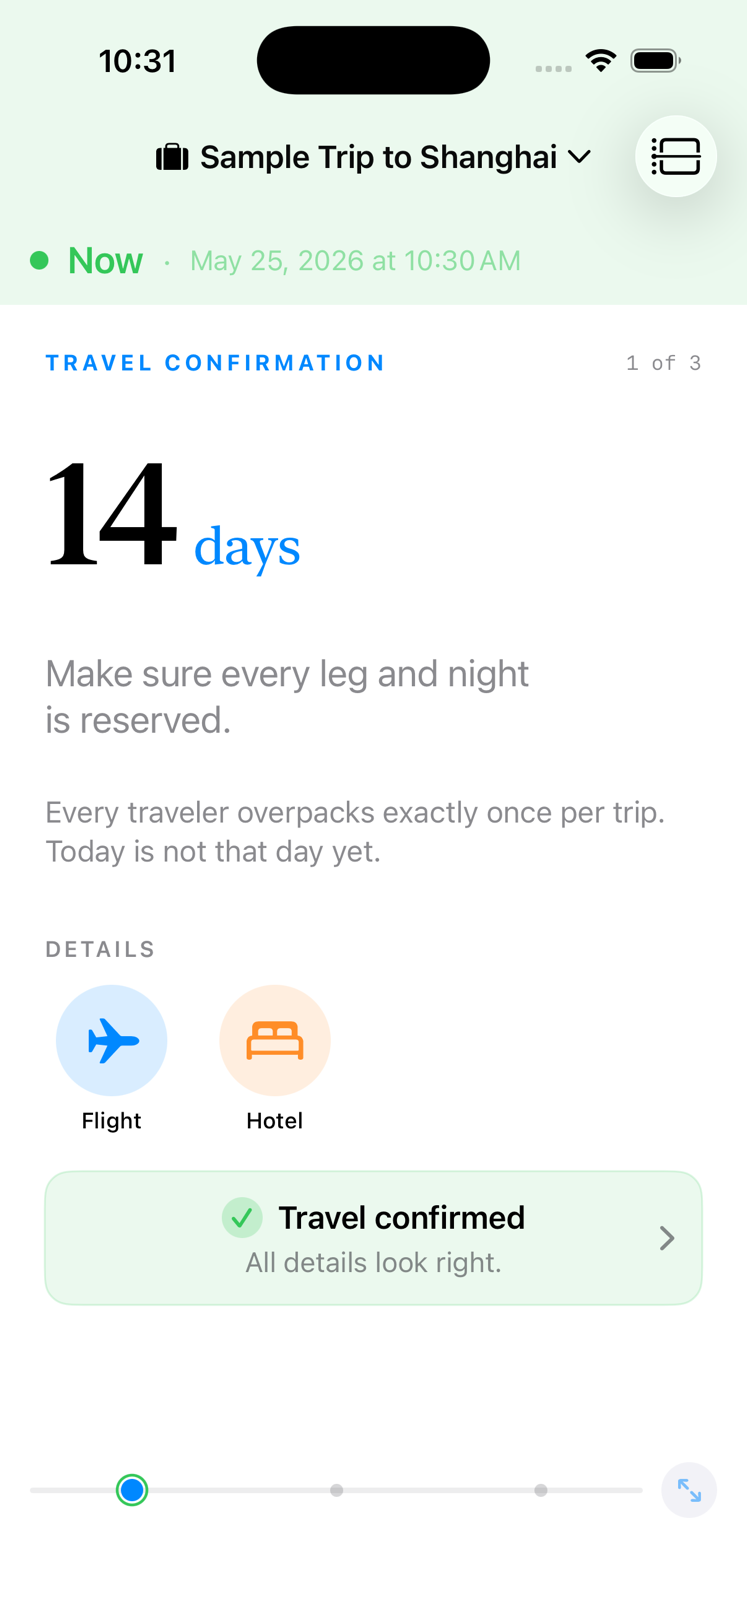
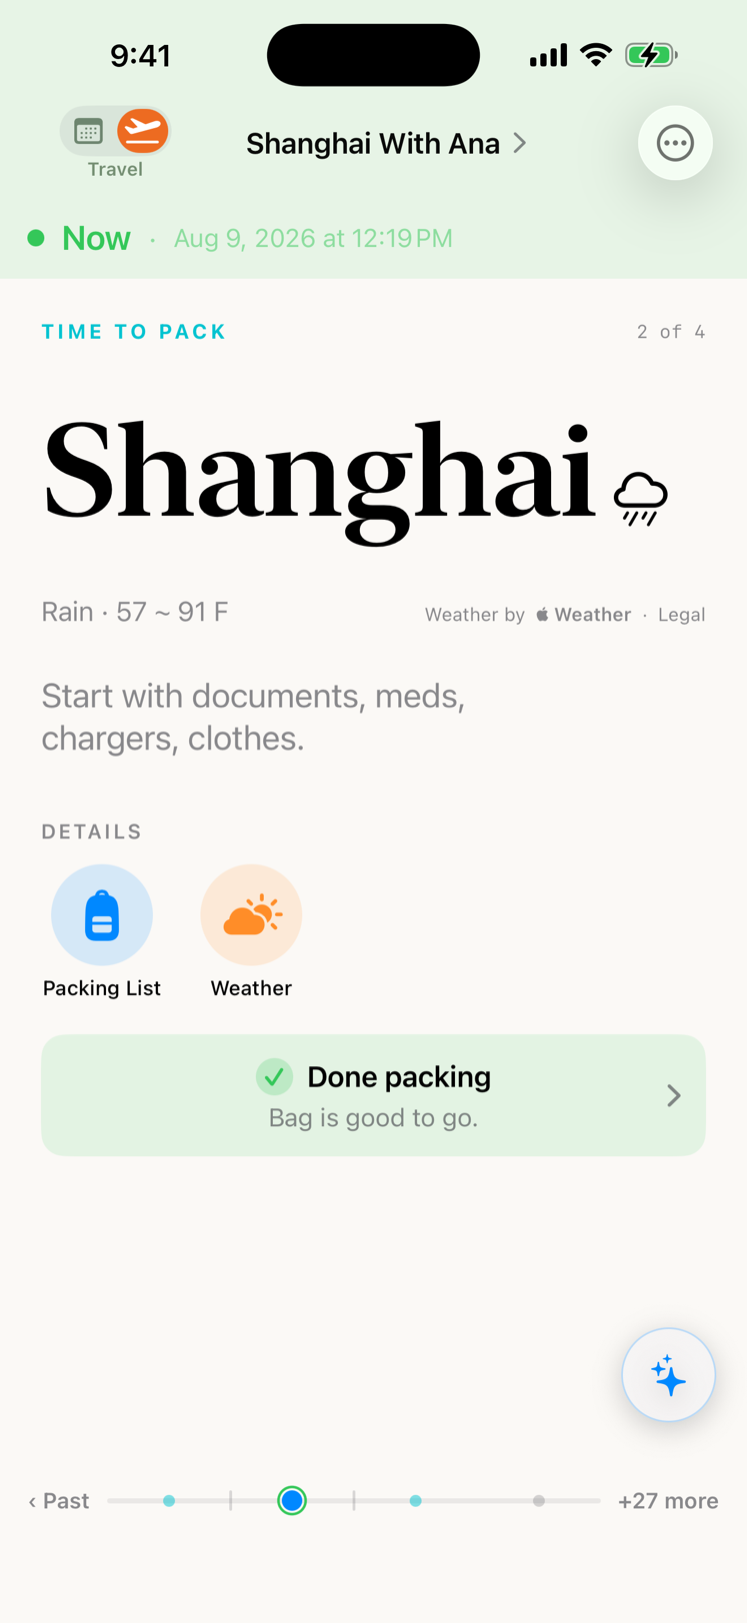
The app page catches up with the trip's three stages
TravelOrbit 1.5 gives one trip three answers — a Plan mode for building
it, the existing Travel mode for the day itself, and My Travels for
everywhere it has already been — so the page stops being a page about
travel day alone.

Two new sections, Plan mode and My Travels, and the seven that were
already here renumbered and re-flipped around them. The moment engine now
says what it is: what the same trip becomes when you switch to Travel.

Screenshots are captured from a booted iPhone 17 Pro Max at 87c9117.
Plan mode and My Travels are new; home-moment and trip-preview are
replaced because both grew a switch this release — Plan | Travel in the
toolbar, Itinerary | Journey in Preview — and the old shots showed
neither.

diff --git a/travelorbit/index.html b/travelorbit/index.html
@@ -3,16 +3,16 @@
 <head>
   <meta charset="UTF-8">
   <meta name="viewport" content="width=device-width, initial-scale=1.0">
-  <title>TravelOrbit — Not just your itinerary. Your next move.</title>
-  <meta name="description" content="TravelOrbit is a real-time travel-day co-pilot. It surfaces the one thing to do next—leave-by times, check-in, gates, arrival—with live flight updates and a private on-device AI assistant, while keeping flights, hotels, travelers and documents in one calm timeline.">
+  <title>TravelOrbit — Plan it. Travel it. Remember it.</title>
+  <meta name="description" content="TravelOrbit adapts to the stage you're at: a calm planning workspace before the trip, a real-time co-pilot on travel day that surfaces the next move — leave-by times, check-in, gates — and a private travel history of everywhere you've been afterwards. With live flight updates and an on-device AI assistant.">
   <link rel="canonical" href="https://cooltravelpal.com/travelorbit/">
   <link rel="stylesheet" href="/css/style.css">
   <link rel="stylesheet" href="/css/travelorbit.css">
   <link rel="icon" type="image/png" href="/images/favicon.png">
   <meta property="og:type" content="website">
   <meta property="og:site_name" content="Cool TravelPal">
-  <meta property="og:title" content="TravelOrbit — Not just your itinerary. Your next move.">
-  <meta property="og:description" content="A real-time travel-day co-pilot with live flight updates and a private on-device AI assistant. The next move, right when you need it.">
+  <meta property="og:title" content="TravelOrbit — Plan it. Travel it. Remember it.">
+  <meta property="og:description" content="A planning workspace before the trip, a real-time co-pilot during it, and a private map of everywhere you've been after. With live flight updates and an on-device AI assistant.">
   <meta property="og:url" content="https://cooltravelpal.com/travelorbit/">
   <meta property="og:image" content="https://cooltravelpal.com/images/travelorbit-icon.png">
   <script type="application/ld+json">
@@ -26,7 +26,8 @@
         "applicationCategory": "TravelApplication",
         "url": "https://cooltravelpal.com/travelorbit/",
         "installUrl": "https://apps.apple.com/app/id6772864604",
-        "description": "TravelOrbit is a real-time travel-day co-pilot: every booking in one calm timeline, the next move surfaced when it matters, with live flight updates and a private on-device AI assistant.",
+        "softwareVersion": "1.5",
+        "description": "TravelOrbit follows a trip through all three of its stages: a Plan mode for building the trip, a Travel mode that surfaces the next move as the day unfolds, and a private travel history of every trip you've taken — with live flight updates and an on-device AI assistant.",
         "publisher": { "@id": "https://cooltravelpal.com/#org" }
       },
       {
@@ -77,9 +78,9 @@
     <header class="to-hero">
       <div class="to-wrap">
         <div class="to-hero-copy">
-          <span class="to-eyebrow to-reveal">Real-time travel-day co-pilot</span>
+          <span class="to-eyebrow to-reveal">Plan it. Travel it. Remember it.</span>
           <h1 class="to-reveal d1">Your trip,<br>one <span class="ital">moment</span><br>at a time.</h1>
-          <p class="lede to-reveal d2">Most travel apps hand you a folder of bookings. TravelOrbit hands you the <em>next move</em> — when to leave, where to check in, which gate, what's next — surfaced exactly when it matters, with live flight updates and a private AI assistant that answers right on your phone.</p>
+          <p class="lede to-reveal d2">Most travel apps hand you a folder of bookings. TravelOrbit changes with the trip: a calm workspace while you're still deciding, then the <em>next move</em> on travel day — when to leave, where to check in, which gate — and afterwards, a private map of everywhere you've been.</p>
           <div class="to-cta-row to-reveal d2">
             <a href="https://apps.apple.com/app/id6772864604" class="to-btn to-btn-primary"><span class="apple" aria-hidden="true"><svg viewBox="0 0 384 512" width="15" height="15" fill="currentColor"><path d="M318.7 268.7c-.2-36.7 16.4-64.4 50-84.8-18.8-26.9-47.2-41.7-84.7-44.6-35.5-2.8-74.3 20.7-88.5 20.7-15 0-49.4-19.7-76.4-19.7C63.3 141.2 4 184.8 4 273.5q0 39.3 14.4 81.2c12.8 36.7 59 126.7 107.2 125.2 25.2-.6 43-17.9 75.8-17.9 31.8 0 48.3 17.9 76.4 17.9 48.6-.7 90.4-82.5 102.6-119.3-65.2-30.7-61.7-90-61.7-91.9zm-56.6-164.2c27.3-32.4 24.8-61.9 24-72.5-24.1 1.4-52 16.4-67.9 34.9-17.5 19.8-27.8 44.3-25.6 71.9 26.1 2 49.9-11.4 69.5-34.3z"/></svg></span> Download on the App Store</a>
             <a href="#how" class="to-btn to-btn-ghost">See how it works</a>
@@ -91,7 +92,7 @@
           <div class="to-orbit alt" aria-hidden="true"></div>
           <div class="to-orbit" aria-hidden="true"></div>
           <div class="to-phone">
-            <img src="/images/travelorbit-screens/home-moment.png" alt="TravelOrbit home screen showing the current travel moment with a countdown" loading="eager" width="747" height="1624">
+            <img src="/images/travelorbit-screens/home-moment.png" alt="TravelOrbit in Travel mode, showing the current moment — time to pack for Shanghai" loading="eager" width="747" height="1623">
           </div>
         </div>
       </div>
@@ -102,7 +103,7 @@
       <div class="to-wrap to-reveal">
         <p class="kicker">Planners vs. co-pilots</p>
         <h2>A planner <span class="hl">organizes</span> your trip.<br>TravelOrbit <span class="hl">runs</span> it.</h2>
-        <p class="sub">Like a navigator for your whole journey — calm before, certain during.</p>
+        <p class="sub">One trip, three answers: what to add, what to do next, and where you've been. Plan freely, travel calmly, remember it whole.</p>
       </div>
     </section>
 
@@ -113,20 +114,33 @@
         <!-- 1 -->
         <section class="to-feature">
           <div class="to-feature-copy to-reveal">
-            <div class="to-feature-num">01 — The moment engine</div>
-            <h2>The next step, before you ask</h2>
-            <p>One screen, one focus. TravelOrbit reads your itinerary and surfaces the single thing that matters right now — confirm bookings, pack, check in, leave home — then quietly advances as your day unfolds.</p>
-            <ul><li>Leave-by timing</li><li>Auto-advancing timeline</li><li>Gentle countdowns</li></ul>
+            <div class="to-feature-num">01 — Plan mode</div>
+            <h2>A trip you can build before you book it</h2>
+            <p>Start a trip with nothing but a name, a destination and dates. Plan mode gives it a cover, a countdown and a running plan in date order — and five buttons that add a flight, a stay, an activity, a transit leg or a rental one booking at a time. If a night has nowhere to sleep, it says so, and tapping the warning opens the stay already filled in.</p>
+            <ul><li>Plan &#124; Travel in one tap</li><li>Quick add, one booking at a time</li><li>A night with no stay, flagged</li></ul>
           </div>
           <div class="to-feature-media to-reveal d1">
-            <div class="pad"><div class="to-phone"><img src="/images/travelorbit-screens/home-moment.png" alt="Current moment with a 14-day countdown" loading="lazy" width="747" height="1624"></div></div>
+            <div class="pad"><div class="to-phone"><img src="/images/travelorbit-screens/plan-mode.png" alt="Plan mode showing a trip cover with a countdown, the plan in date order, and buttons to add a flight, stay, activity, transit or rental" loading="lazy" width="747" height="1623"></div></div>
           </div>
         </section>
 
         <!-- 2 -->
         <section class="to-feature flip">
           <div class="to-feature-copy to-reveal">
-            <div class="to-feature-num">02 — Ask your trip</div>
+            <div class="to-feature-num">02 — The moment engine</div>
+            <h2>The next step, before you ask</h2>
+            <p>When the trip gets close, switch to Travel and the same trip becomes one screen with one focus. TravelOrbit surfaces the single thing that matters right now — confirm bookings, pack, check in, leave home — then quietly advances as your day unfolds.</p>
+            <ul><li>Leave-by timing</li><li>Auto-advancing timeline</li><li>Gentle countdowns</li></ul>
+          </div>
+          <div class="to-feature-media to-reveal d1">
+            <div class="pad"><div class="to-phone"><img src="/images/travelorbit-screens/home-moment.png" alt="Travel mode showing the current moment — time to pack, with Shanghai weather and the packing list" loading="lazy" width="747" height="1623"></div></div>
+          </div>
+        </section>
+
+        <!-- 3 -->
+        <section class="to-feature">
+          <div class="to-feature-copy to-reveal">
+            <div class="to-feature-num">03 — Ask your trip</div>
             <h2>A travel assistant that runs on your phone</h2>
             <p>Ask in plain words — "When do I board?", "How long is my layover?", "Where am I staying Tuesday?" — and get an answer pulled straight from your itinerary. It runs entirely on-device with Apple Intelligence, so nothing about your trip ever leaves your phone.</p>
             <ul><li>Answers from your itinerary</li><li>On-device &amp; private</li><li>No account, no cloud</li></ul>
@@ -136,10 +150,10 @@
           </div>
         </section>
 
-        <!-- 3 -->
-        <section class="to-feature">
+        <!-- 4 -->
+        <section class="to-feature flip">
           <div class="to-feature-copy to-reveal">
-            <div class="to-feature-num">03 — Travel day</div>
+            <div class="to-feature-num">04 — Travel day</div>
             <h2>Your travel day, minute by minute</h2>
             <p>On the day itself, TravelOrbit follows the route — flight number, gate, terminal, boarding estimate, and an offline map of the airport. Live flight updates and a Live Activity keep the countdown and any gate change right on your Lock Screen, so you don't have to open the app.</p>
             <ul><li>Live flight updates</li><li>Gate change on the Lock Screen</li><li>Offline route map</li></ul>
@@ -149,23 +163,23 @@
           </div>
         </section>
 
-        <!-- 4 -->
-        <section class="to-feature flip">
-          <div class="to-feature-copy to-reveal">
-            <div class="to-feature-num">04 — One trip, everything</div>
-            <h2>Every booking in one timeline</h2>
-            <p>Flights, hotels, rental cars, ground transit and activities live together in a single, scrollable trip — with seats, room numbers, confirmation codes and times exactly where you expect them. Point the camera at a confirmation email or boarding pass and the details fill themselves in.</p>
-            <ul><li>Flights &amp; hotels</li><li>Cars &amp; transit</li><li>Scan a confirmation to add it</li></ul>
-          </div>
-          <div class="to-feature-media to-reveal d1">
-            <div class="pad"><div class="to-phone"><img src="/images/travelorbit-screens/trip-preview.png" alt="Trip preview showing the full itinerary" loading="lazy" width="747" height="1624"></div></div>
-          </div>
-        </section>
-
         <!-- 5 -->
         <section class="to-feature">
           <div class="to-feature-copy to-reveal">
-            <div class="to-feature-num">05 — Prepared</div>
+            <div class="to-feature-num">05 — One trip, everything</div>
+            <h2>Every booking in one timeline</h2>
+            <p>Flights, hotels, rental cars, ground transit and activities live together in a single, scrollable trip — day by day, with seats, room numbers, confirmation codes and times exactly where you expect them. Switch the same screen to Journey to watch the whole route draw itself on a map. Point the camera at a confirmation email or boarding pass and the details fill themselves in.</p>
+            <ul><li>Itinerary or Journey</li><li>Flights, hotels, cars &amp; transit</li><li>Scan a confirmation to add it</li></ul>
+          </div>
+          <div class="to-feature-media to-reveal d1">
+            <div class="pad"><div class="to-phone"><img src="/images/travelorbit-screens/trip-preview.png" alt="Trip Preview showing the itinerary day by day, with an Itinerary and Journey switch" loading="lazy" width="747" height="1623"></div></div>
+          </div>
+        </section>
+
+        <!-- 6 -->
+        <section class="to-feature flip">
+          <div class="to-feature-copy to-reveal">
+            <div class="to-feature-num">06 — Prepared</div>
             <h2>Packing, with context</h2>
             <p>A packing list that knows where you're going — per-traveler lists, a shared common list, and custom lists for to-dos and shopping, all synced live with your companions. Import from Reminders or paste a list, save your own template, and pair it with destination weather cues so the trip feels handled before you zip the bag.</p>
             <ul><li>Per-traveler &amp; shared lists</li><li>Import from Reminders</li><li>Destination weather</li></ul>
@@ -175,10 +189,10 @@
           </div>
         </section>
 
-        <!-- 6 -->
-        <section class="to-feature flip">
+        <!-- 7 -->
+        <section class="to-feature">
           <div class="to-feature-copy to-reveal">
-            <div class="to-feature-num">06 — Everyone aboard</div>
+            <div class="to-feature-num">07 — Everyone aboard</div>
             <h2>Every traveler, every document</h2>
             <p>Keep the whole party in one place — names, seats, room assignments and travel documents — with passport and ID scans encrypted on device and never sent to a server.</p>
             <ul><li>Multi-traveler</li><li>Passport &amp; ID</li><li>Encrypted on device</li></ul>
@@ -188,16 +202,29 @@
           </div>
         </section>
 
-        <!-- 7 -->
-        <section class="to-feature">
+        <!-- 8 -->
+        <section class="to-feature flip">
           <div class="to-feature-copy to-reveal">
-            <div class="to-feature-num">07 — Yours to keep</div>
+            <div class="to-feature-num">08 — Yours to keep</div>
             <h2>Travel it together</h2>
             <p>Invite a companion and you're both on the same trip — the itinerary, the timeline, even travel-day progress stay in sync through your own iCloud. Add any moment to your calendar and back everything up automatically. Passport and document numbers are never shared, even on a shared trip.</p>
             <ul><li>Companion sharing</li><li>Synced travel-day progress</li><li>Documents stay private</li></ul>
           </div>
           <div class="to-feature-media to-reveal d1">
             <div class="pad"><div class="to-phone"><img src="/images/travelorbit-screens/add-to-calendar.png" alt="Add trip events to Calendar screen" loading="lazy" width="747" height="1624"></div></div>
+          </div>
+        </section>
+
+        <!-- 9 -->
+        <section class="to-feature">
+          <div class="to-feature-copy to-reveal">
+            <div class="to-feature-num">09 — My Travels</div>
+            <h2>Everywhere you've been, on one map</h2>
+            <p>Archive a trip and it joins your travel history: a shelf of trips by year, and a painted world with a pin for every city you've reached. Count the trips, the countries and the cities; filter by year, country or city; or press play and watch your travels light up in the order they happened. Every trip keeps its story and its journey, one tap from the card.</p>
+            <ul><li>Trips and map, one screen</li><li>Play your history in order</li><li>Built from your own trips, on your device</li></ul>
+          </div>
+          <div class="to-feature-media to-reveal d1">
+            <div class="pad"><div class="to-phone"><img src="/images/travelorbit-screens/travel-history.png" alt="Manage Trips showing the active trip and a My Travels card reading 6 trips, 8 cities over a painted world map" loading="lazy" width="747" height="1623"></div></div>
           </div>
         </section>
 
@@ -210,7 +237,7 @@
         <div class="glyph" aria-hidden="true">&#128274;</div>
         <div>
           <h2>Private by design</h2>
-          <p>TravelOrbit is local-first. Your itinerary and documents live on your device and in your own iCloud — passport and ID scans are encrypted and never handed to us. Even the AI assistant runs on-device, so your questions and trip details never leave your phone. No account required to start.</p>
+          <p>TravelOrbit is local-first. Your itinerary, your documents and your travel history live on your device and in your own iCloud — passport and ID scans are encrypted and never handed to us. Even the AI assistant runs on-device, so your questions and trip details never leave your phone. No account required to start.</p>
         </div>
       </div>
     </section>
@@ -219,7 +246,7 @@
     <section class="to-final">
       <div class="to-wrap to-reveal">
         <h2>Travel like it's <span class="ital">handled</span>.</h2>
-        <p>The calm way to move through a trip — from the first countdown to the moment you're home.</p>
+        <p>The calm way to move through a trip — from the first idea to the pin it leaves on your map.</p>
         <div class="to-cta-row">
           <a href="https://apps.apple.com/app/id6772864604" class="to-btn to-btn-primary"><span class="apple" aria-hidden="true"><svg viewBox="0 0 384 512" width="15" height="15" fill="currentColor"><path d="M318.7 268.7c-.2-36.7 16.4-64.4 50-84.8-18.8-26.9-47.2-41.7-84.7-44.6-35.5-2.8-74.3 20.7-88.5 20.7-15 0-49.4-19.7-76.4-19.7C63.3 141.2 4 184.8 4 273.5q0 39.3 14.4 81.2c12.8 36.7 59 126.7 107.2 125.2 25.2-.6 43-17.9 75.8-17.9 31.8 0 48.3 17.9 76.4 17.9 48.6-.7 90.4-82.5 102.6-119.3-65.2-30.7-61.7-90-61.7-91.9zm-56.6-164.2c27.3-32.4 24.8-61.9 24-72.5-24.1 1.4-52 16.4-67.9 34.9-17.5 19.8-27.8 44.3-25.6 71.9 26.1 2 49.9-11.4 69.5-34.3z"/></svg></span> Download on the App Store</a>
         </div>

diff --git a/apps/index.html b/apps/index.html
@@ -119,8 +119,8 @@
         <div class="app-card travel">
           <img class="app-icon" src="/images/travelorbit-icon.webp" alt="TravelOrbit app icon" width="64" height="64">
           <h3>TravelOrbit</h3>
-          <p class="app-tag">Stay organized throughout your journey.</p>
-          <p>A real-time travel-day co-pilot. Every booking in one calm timeline, the next move surfaced when it matters — leave-by times, check-in, gates — with live flight updates on your Lock Screen, companion sharing, and a private on-device AI assistant.</p>
+          <p class="app-tag">Plan it. Travel it. Remember it.</p>
+          <p>Plan a trip a booking at a time, then let it become a real-time travel-day co-pilot — the next move surfaced when it matters, with leave-by times, gates, live flight updates on your Lock Screen, companion sharing, and a private on-device AI assistant. Archived trips become a map of everywhere you've been.</p>
           <p class="app-platform">iPhone · iPad · Apple Watch</p>
           <div class="app-actions">
             <a class="btn btn-travel" href="https://apps.apple.com/app/id6772864604">App Store</a>
